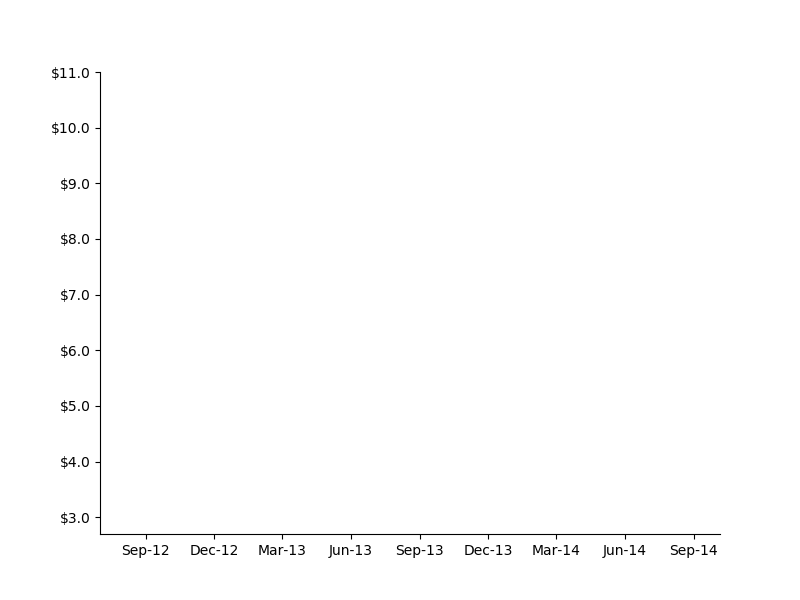
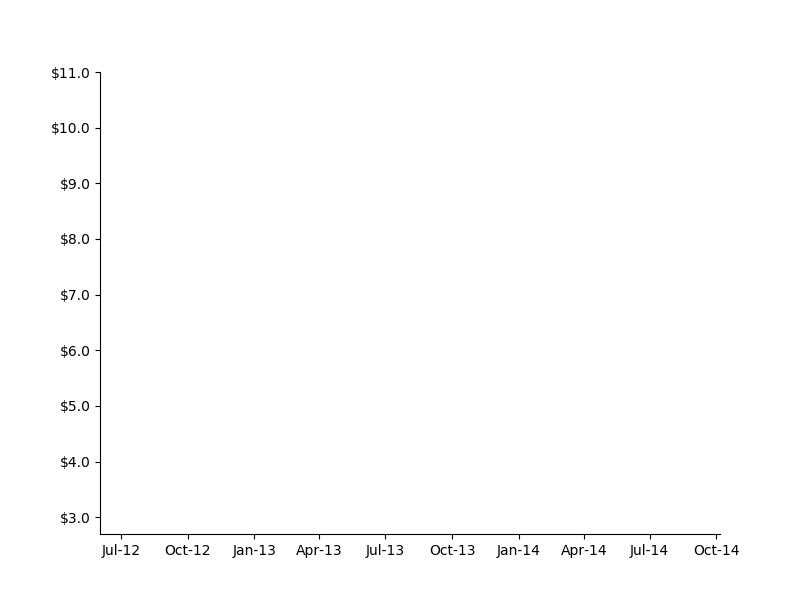
last details

Changed region(s): [[0.125, 0.9, 0.9375, 0.93]]

diff --git a/graph3.0.py b/graph3.0.py
@@ -6,7 +6,7 @@ import matplotlib.pyplot as plt
 import matplotlib.ticker as mtick
 import matplotlib.dates as mdates
 import matplotlib.animation as animation
-from datetime import datetime
+from datetime import datetime, timedelta
 
 df = pd.read_csv('data3.csv', ';')
 df.Date = pd.to_datetime(df.Date, dayfirst=True)
@@ -23,7 +23,7 @@ tick = mtick.StrMethodFormatter(fmt)
 ax1.yaxis.set_major_formatter(tick)
 
 ax1.set_ylim(2.7, 11)
-ax1.set_xlim(min(df.index), max(df.index))
+ax1.set_xlim(min(df.index)-timedelta(days=30), max(df.index))
 
 monthyearFmt = mdates.DateFormatter('%b-%y')
 ax1.xaxis.set_major_formatter(monthyearFmt)

diff --git a/graph3.3.py b/graph3.3.py
@@ -6,7 +6,7 @@ import matplotlib.pyplot as plt
 import matplotlib.ticker as mtick
 import matplotlib.dates as mdates
 import matplotlib.animation as animation
-from datetime import datetime
+from datetime import datetime, timedelta
 
 df = pd.read_csv('data3.csv', ';')
 df.Date = pd.to_datetime(df.Date, dayfirst=True)
@@ -23,7 +23,7 @@ tick = mtick.StrMethodFormatter(fmt)
 ax1.yaxis.set_major_formatter(tick)
 
 ax1.set_ylim(2.7, 11)
-ax1.set_xlim(min(df.index), max(df.index))
+ax1.set_xlim(min(df.index)-timedelta(days=30), max(df.index))
 
 monthyearFmt = mdates.DateFormatter('%b-%y')
 ax1.xaxis.set_major_formatter(monthyearFmt)

diff --git a/graph3.1.py b/graph3.1.py
@@ -6,7 +6,7 @@ import matplotlib.pyplot as plt
 import matplotlib.ticker as mtick
 import matplotlib.dates as mdates
 import matplotlib.animation as animation
-from datetime import datetime
+from datetime import datetime, timedelta
 
 df = pd.read_csv('data3.csv', ';')
 df.Date = pd.to_datetime(df.Date, dayfirst=True)
@@ -28,7 +28,7 @@ tick = mtick.StrMethodFormatter(fmt)
 ax1.yaxis.set_major_formatter(tick)
 
 ax1.set_ylim(2.7, 11)
-ax1.set_xlim(min(df.index), supDate)
+ax1.set_xlim(min(df.index)-timedelta(days=30), supDate)
 
 monthyearFmt = mdates.DateFormatter('%b-%y')
 ax1.xaxis.set_major_formatter(monthyearFmt)

diff --git a/graph3.2.py b/graph3.2.py
@@ -6,7 +6,7 @@ import matplotlib.pyplot as plt
 import matplotlib.ticker as mtick
 import matplotlib.dates as mdates
 import matplotlib.animation as animation
-from datetime import datetime
+from datetime import datetime, timedelta
 
 df = pd.read_csv('data3.csv', ';')
 df.Date = pd.to_datetime(df.Date, dayfirst=True)
@@ -27,7 +27,7 @@ tick = mtick.StrMethodFormatter(fmt)
 ax1.yaxis.set_major_formatter(tick)
 
 ax1.set_ylim(2.7, 11)
-ax1.set_xlim(min(df.index), supDate)
+ax1.set_xlim(min(df.index)-timedelta(days=30), supDate)
 
 monthyearFmt = mdates.DateFormatter('%b-%y')
 ax1.xaxis.set_major_formatter(monthyearFmt)
